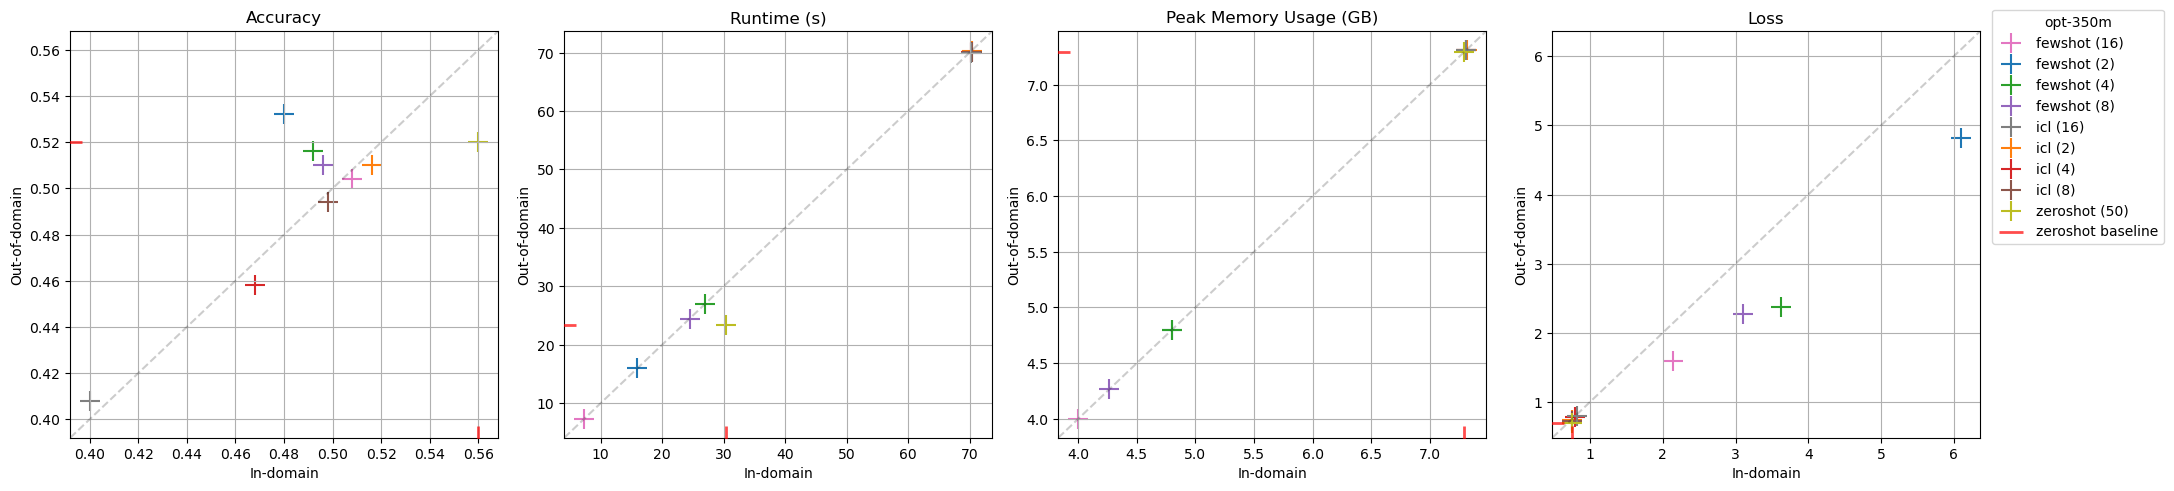
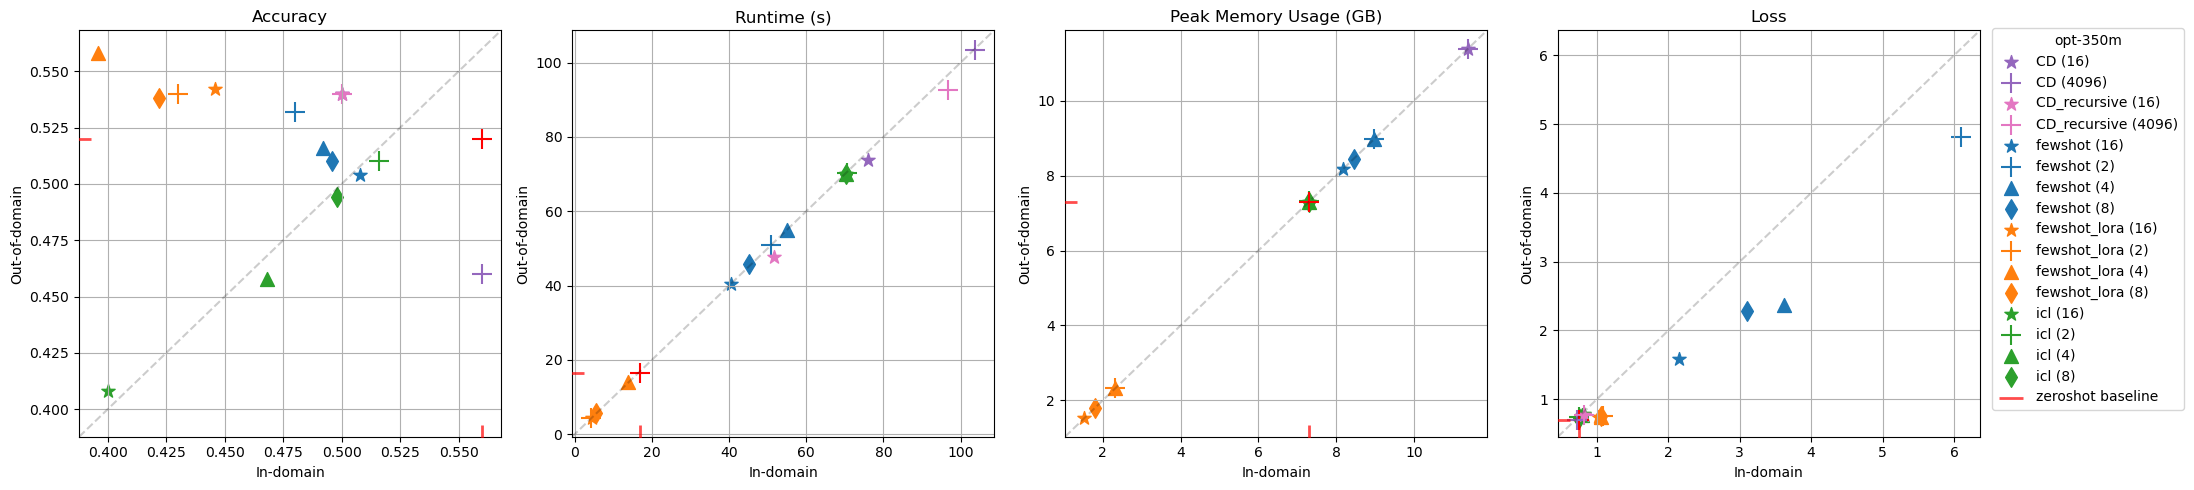
update plotting methods

diff --git a/src/visualization/plot.py b/src/visualization/plot.py
@@ -81,6 +81,33 @@ def plot_in_out_domain_subplots(logfiles, metrics=['accuracy', 'runtime', 'peak_
     
     num_cols = len(metrics)
     
+    colors = {
+        'fewshot': 'C0',
+        'fewshot_lora': 'C1',
+        'icl': 'C2',
+        'context_distillation':'C4',
+        'recursive_context_distillation': 'C6',
+        'zeroshot': 'r'
+    }
+    
+    markers = {
+        2: '+',
+        4: '^',
+        8: 'd',
+        16: '*',
+        4096: '+',
+        50: '+'
+    }
+    
+    marker_sizes = {
+        2: 200,
+        4: 100,
+        8: 100,
+        16: 100,
+        4096: 200,
+        50: 200
+    }
+    
     for group in unique_groups:
         fig, axes = plt.subplots(1, num_cols, figsize=(5 * num_cols, 5))
         axes = axes.flatten()
@@ -100,11 +127,15 @@ def plot_in_out_domain_subplots(logfiles, metrics=['accuracy', 'runtime', 'peak_
                 if finetuning_method == 'context_distillation':
                     label = f"CD ({sample_size})"
                 elif finetuning_method == 'recursive_context_distillation':
-                    label = f"recursive CD ({sample_size})"
+                    label = f"CD_recursive ({sample_size})"
+                elif finetuning_method == 'zeroshot':
+                    label = ''
                 else:
                     label = f"{finetuning_method} ({sample_size})"
                 
-                ax.scatter(avg_in_metric, avg_out_metric, label=label, marker='+', s=200)
+                ax.scatter(avg_in_metric, avg_out_metric, label=label, marker=markers[sample_size], color=colors[finetuning_method], s=marker_sizes[sample_size])   #BUG: same colors...
+                # finetuning method same color, shot size different shape
+                
             if metric == 'runtime':
                 title = f"Runtime (s)"
             elif metric == 'peak_memory_gb':
@@ -137,7 +168,7 @@ def plot_in_out_domain_subplots(logfiles, metrics=['accuracy', 'runtime', 'peak_
         handles, labels = ax.get_legend_handles_labels()
         sorted_handles_labels = sorted(zip(handles, labels), key=lambda x: x[1])
         sorted_handles, sorted_labels = zip(*sorted_handles_labels)
-        fig.legend(sorted_handles, sorted_labels, bbox_to_anchor=(0.995, 0.49), loc='lower left', ncol=1, title=group)
+        fig.legend(sorted_handles, sorted_labels, bbox_to_anchor=(0.995, 0.948), loc='upper left', ncol=1, title=group)
 
         plt.tight_layout()
         filepath = os.path.join(get_project_root(), 'experiments/figures', f"metrics_{group}.png")
@@ -181,8 +212,8 @@ def plot_learning_curves(logfiles, subplot=True):
                     avg_val_loss = subset.groupby('epoch')['val_loss'].mean()
                     
                     # color = color_cycle[subplot+1]
-                    ax.plot(avg_train_loss.index, avg_train_loss, linestyle='-', marker=marker, markersize=4, color='g', label=f'Train Loss ({finetuning_method})')
-                    ax.plot(avg_val_loss.index, avg_val_loss, linestyle='--', marker=marker, markersize=4, color='darkorange', label=f'Val Loss ({finetuning_method})')
+                    ax.plot(avg_train_loss.index, avg_train_loss, linestyle='-', marker=marker, markersize=4, color='g', label=f'train ({finetuning_method})')
+                    ax.plot(avg_val_loss.index, avg_val_loss, linestyle='--', marker=marker, markersize=4, color='darkorange', label=f'val ({finetuning_method})')
 
                     ax.set_title(f'{sample_size}-shot')
                     if subplot in [0, 3]:
